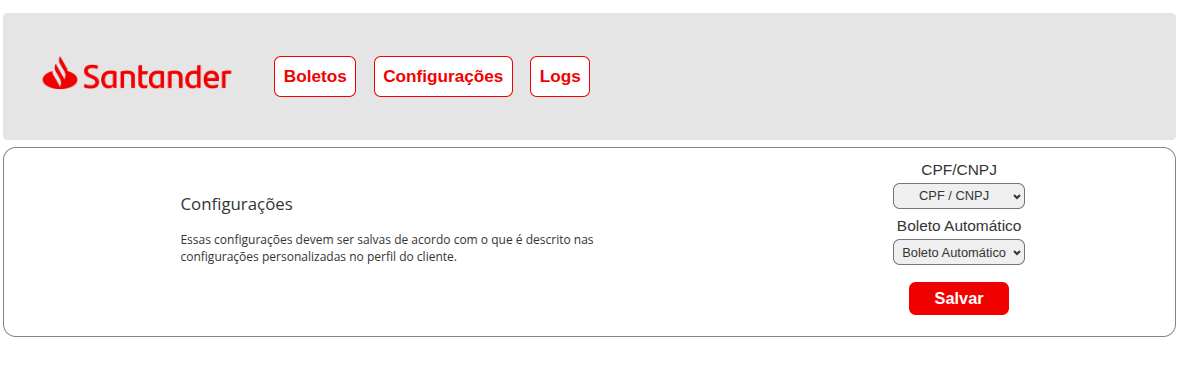
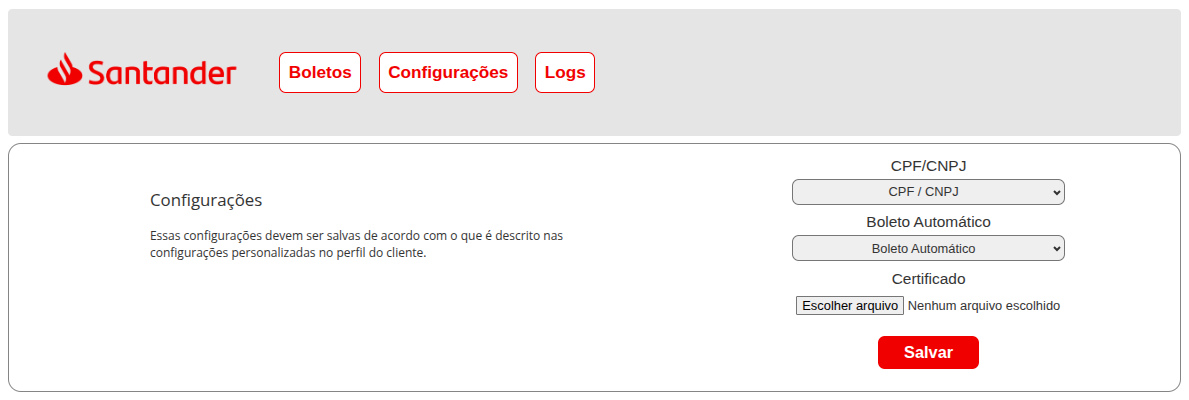
Alteração na documentação

diff --git a/Documentação/Santander.md b/Documentação/Santander.md
@@ -59,6 +59,8 @@ Siga os passos abaixo para instalar e configurar os módulos de geração de bol
 
 ![Configurações do Addon](imagens_readme_santander/Configurações%20do%20Addon.png)
 
+**Observação:** O certificado deve ser válido e ter a extensão ***"PFX"***. Ele está salvo em ***html/Certificados/Certificado.pfx***, após enviado nas configurações.
+
 7. Ao abrir uma fatura, basta selecionar o **Método de Pagamento** para **Boleto Santander**. Caso a opção Boleto Automático esteja marcada como **Sim** no perfil do cliente, o boleto será gerado automaticamente.
 
 ![Fatura](imagens_readme_santander/Fatura.png)
@@ -67,11 +69,11 @@ Siga os passos abaixo para instalar e configurar os módulos de geração de bol
 
 ```bash
 
-    0 6 * * * root curl -s /caminho/completo/para/o/seu/whmcs/modules/gateways/santander/libs/atualizar.php
+    0 6 * * * root curl -s dominio_do_seu_whmcs/modules/gateways/santander/libs/atualizarBoletos.php
 
 ``` 
 
-**Importante**: Substitua ***/caminho/completo/para/o/seu/whmcs/*** pelo caminho real da sua instalação do WHMCS no servidor. Este cron job é crucial para o processamento automático de retornos bancários e atualizações diário do status dos boletos.
+**Importante**: Substitua ***dominio_do_seu_whmcs/*** pelo domínio da sua instalação do WHMCS no servidor. Este cron job é crucial para o processamento automático de retornos bancários e atualizações diário do status dos boletos.
 
 ## ℹ Informações sobre a aplicação.
 
